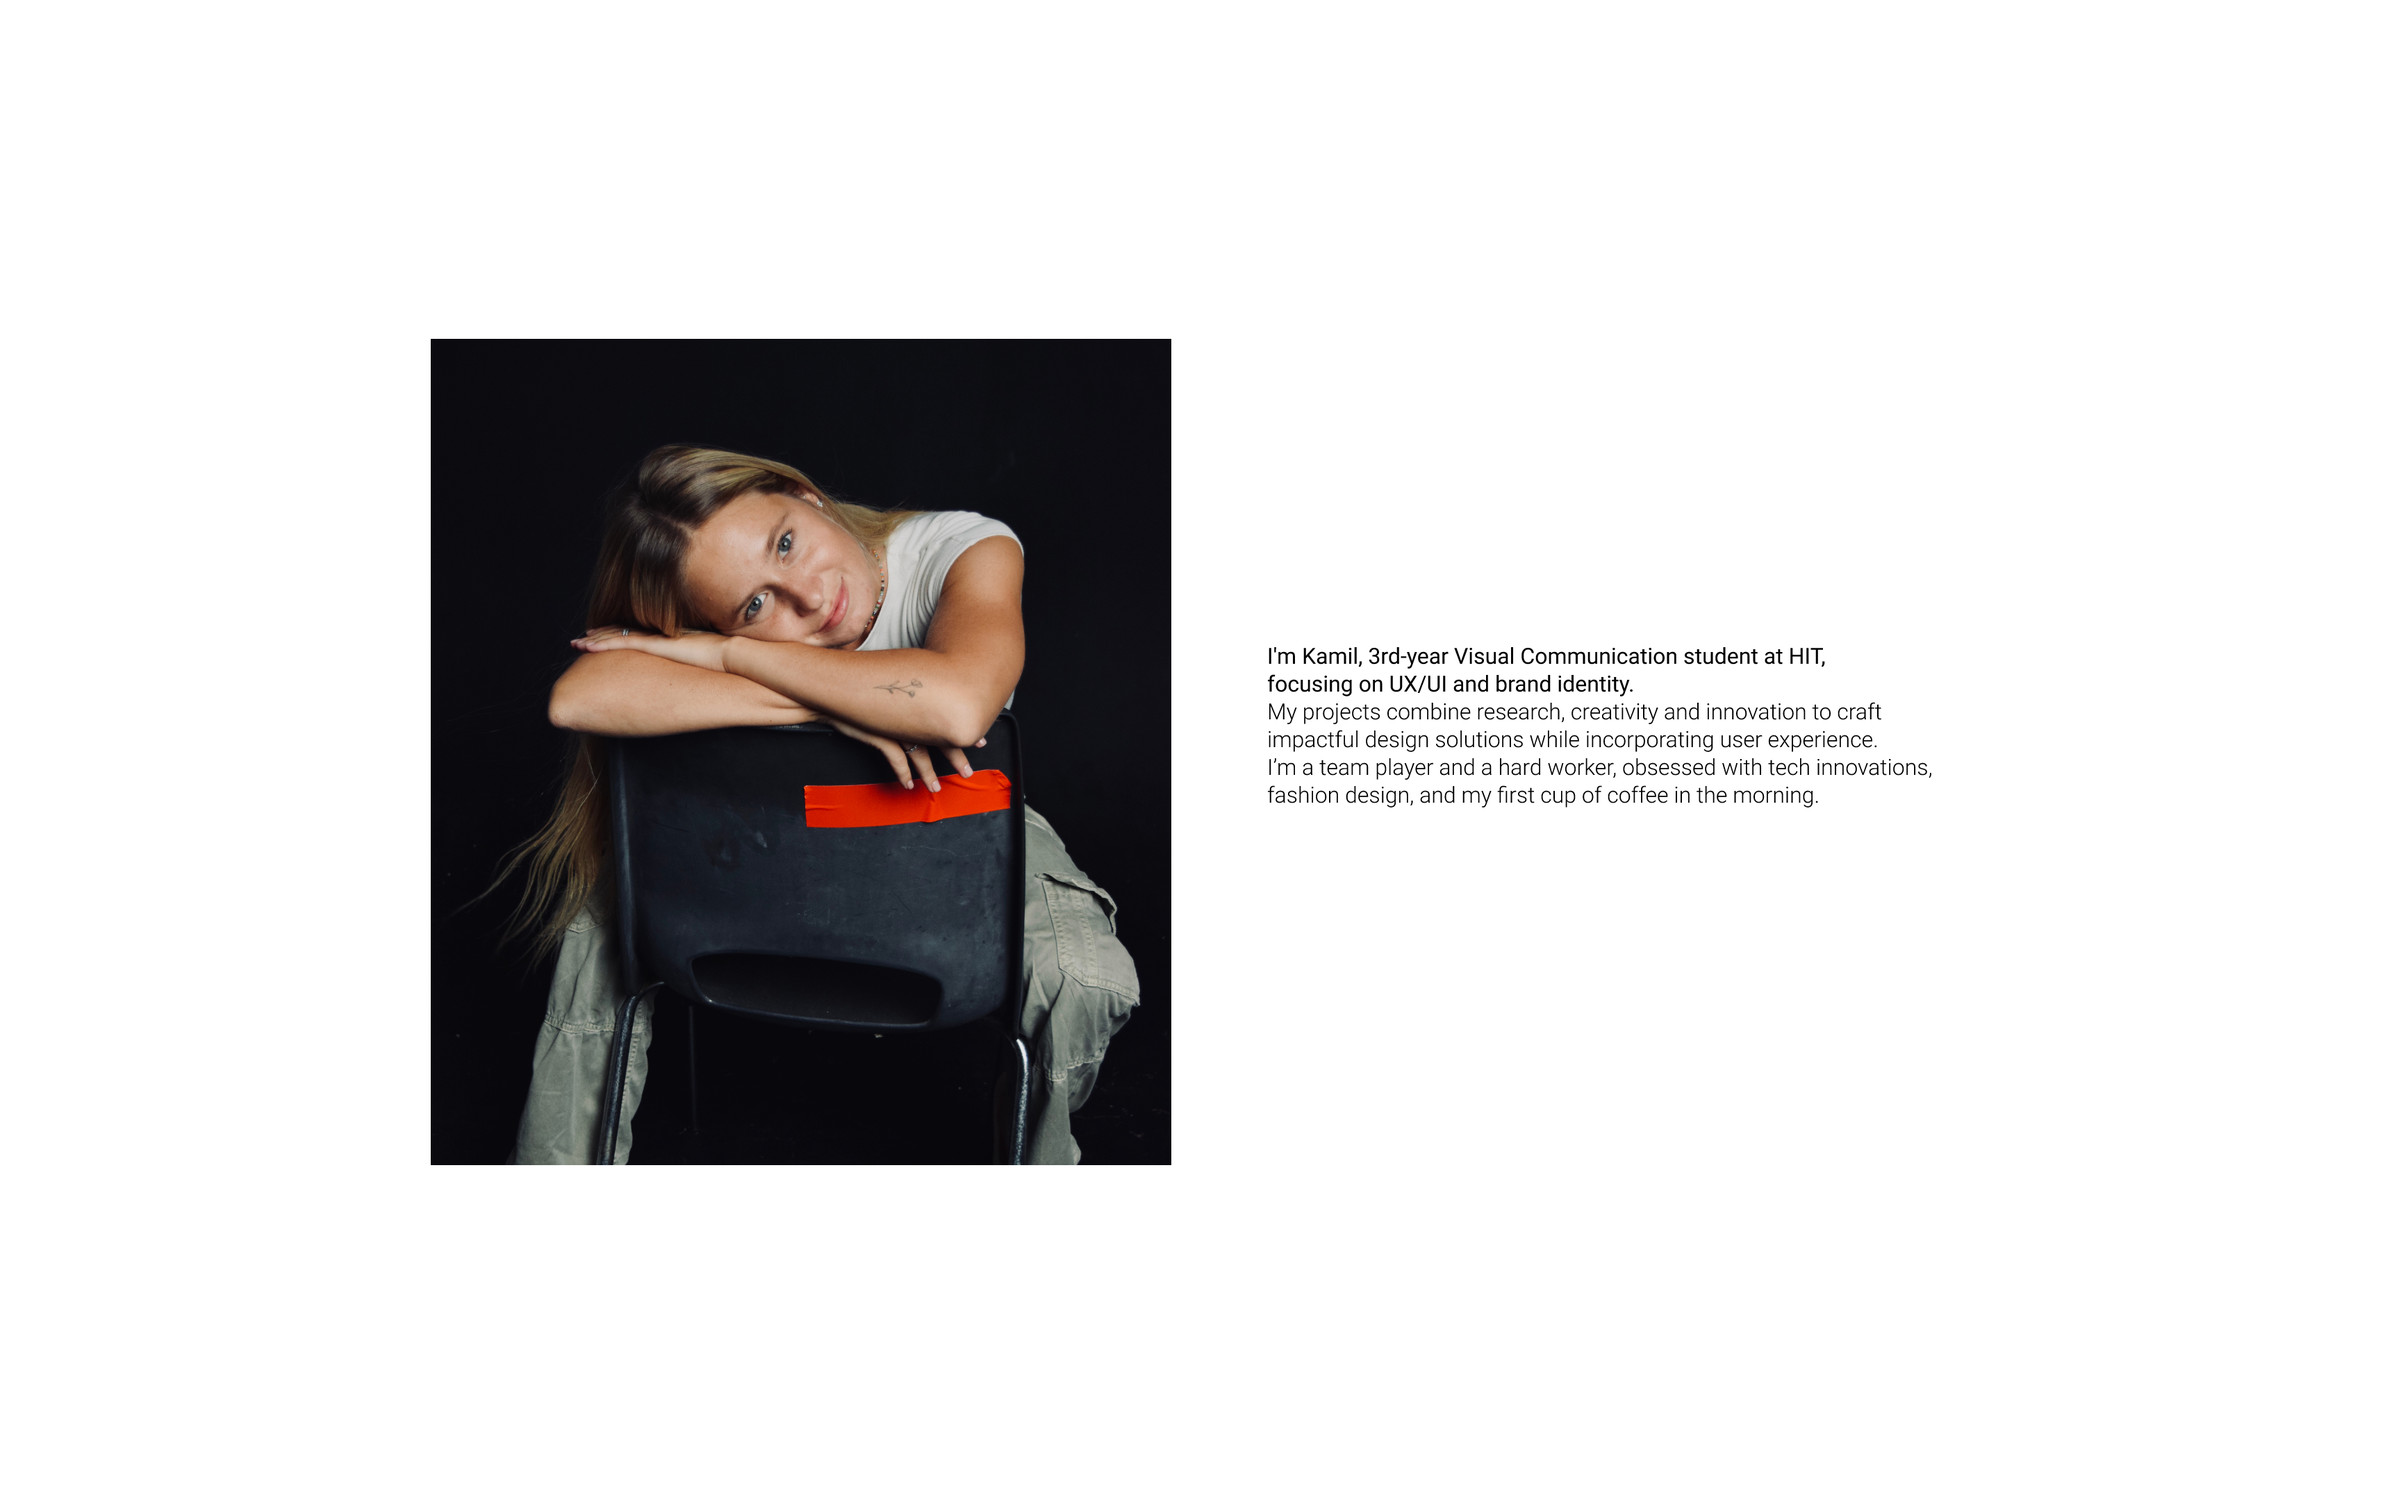
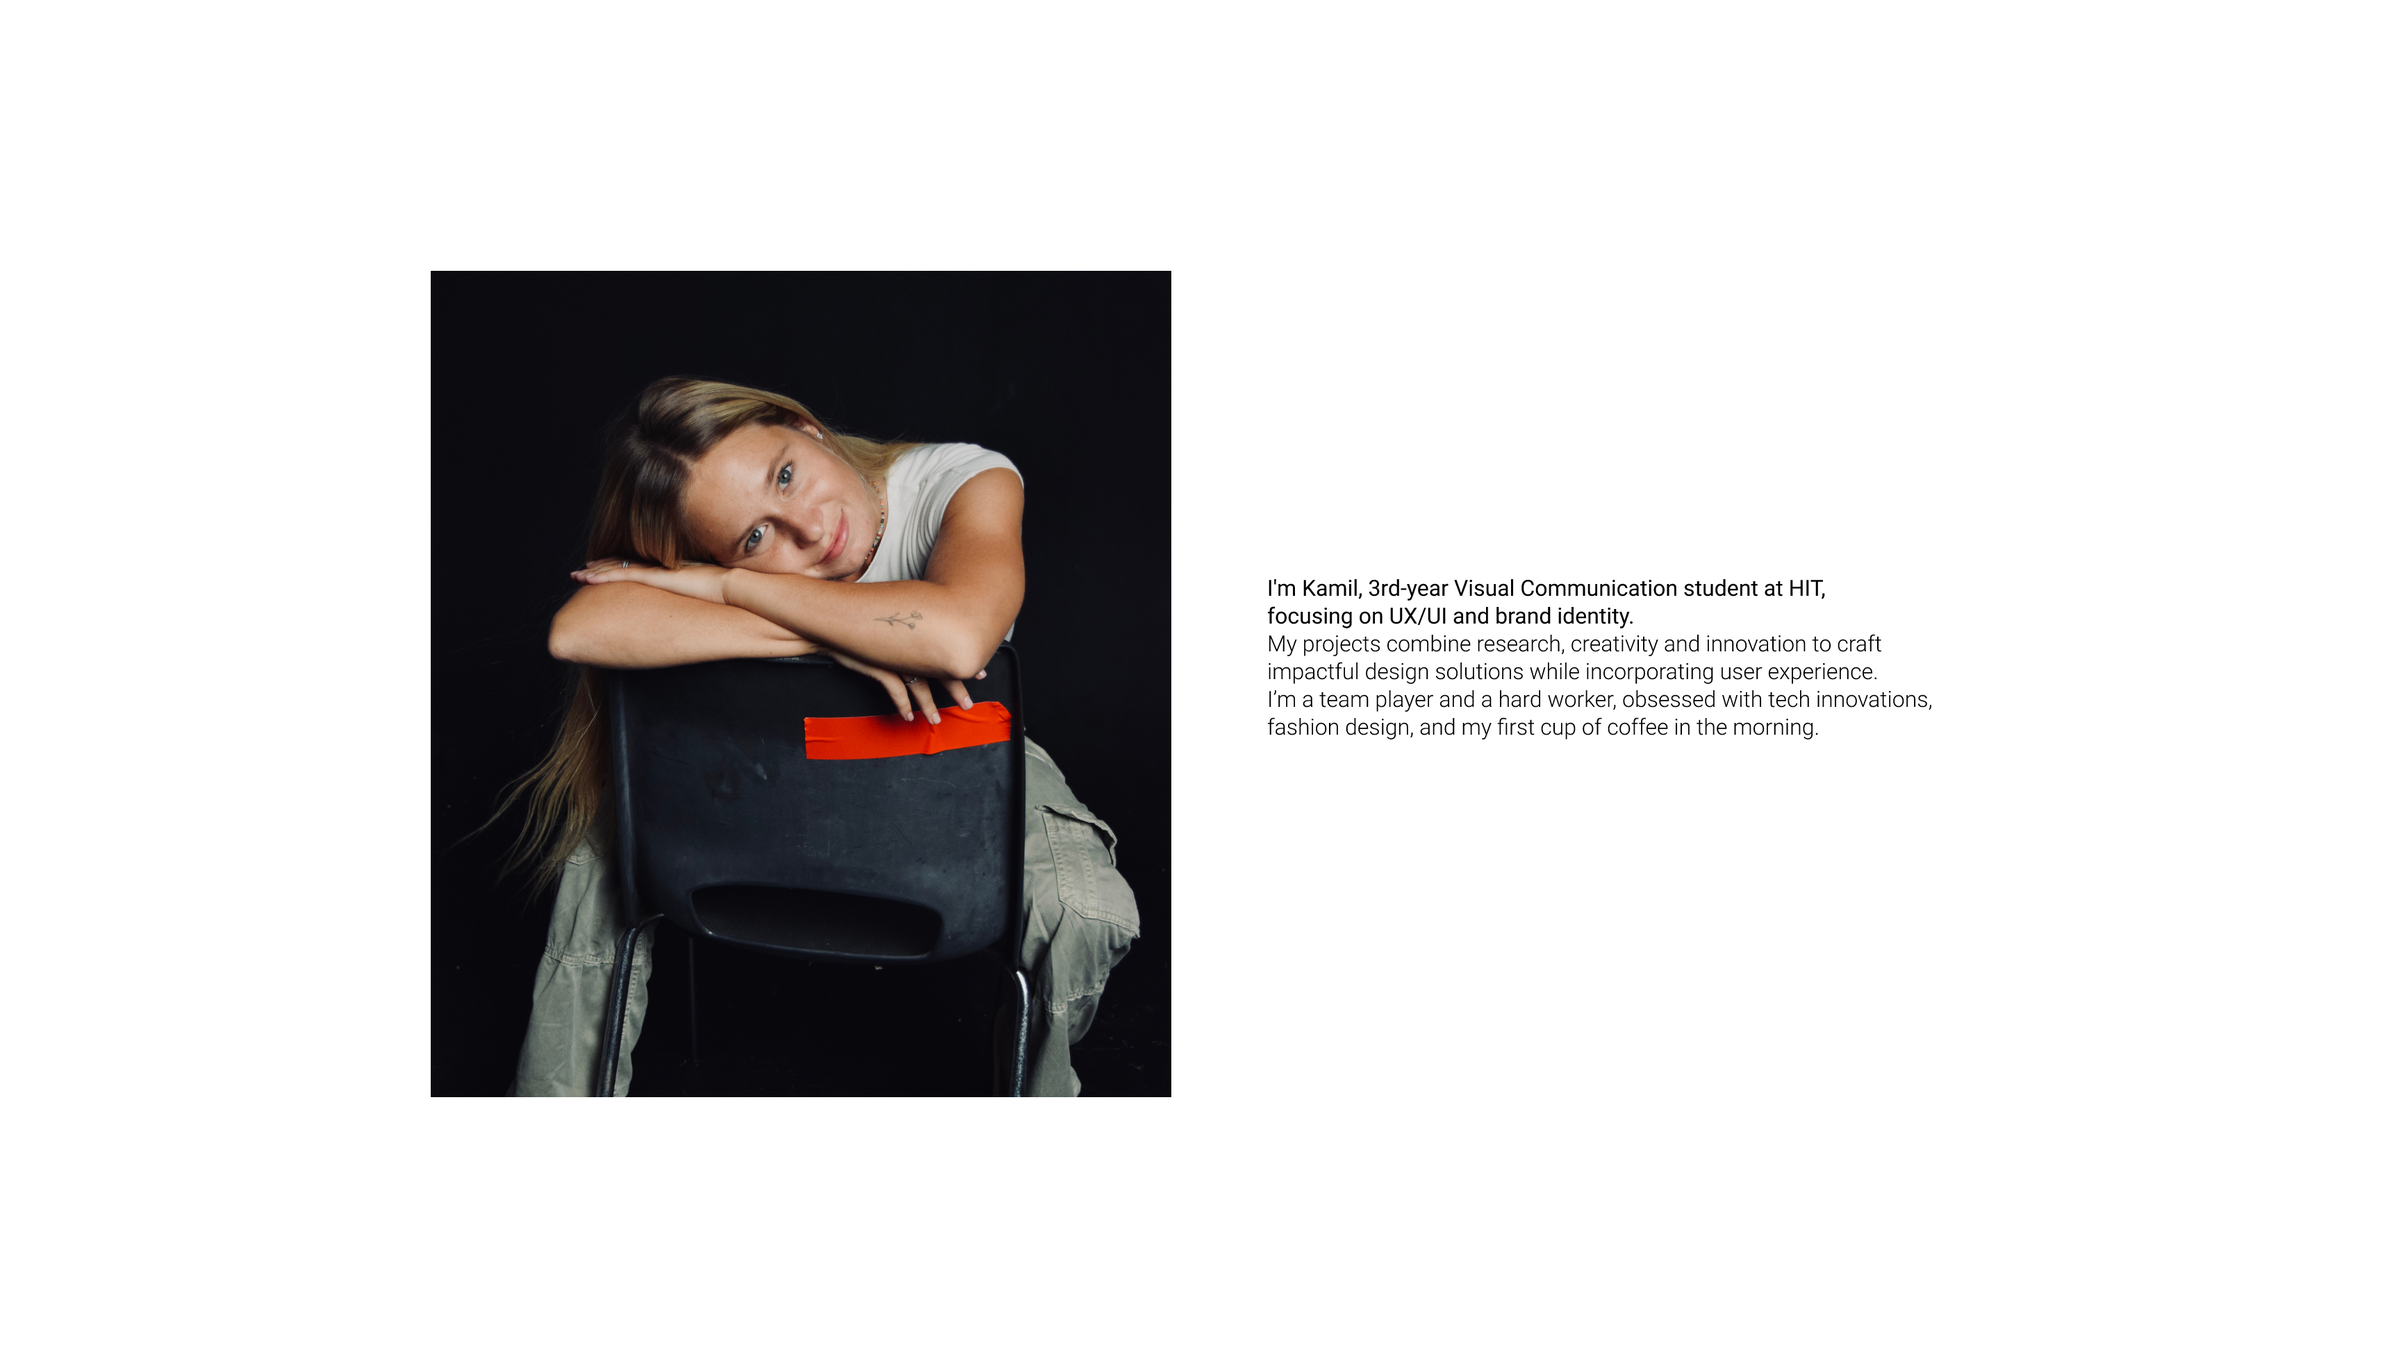
change prototype link

diff --git a/now.html b/now.html
@@ -1060,7 +1060,7 @@
         <div class="case-prototype-link-wrap case-reveal-item">
           <a
             class="case-prototype-link"
-            href="https://www.figma.com/proto/fhZRiVmuwN8cJzJ32hl5vI/%D7%90%D7%A4%D7%99%D7%9C%D7%A7%D7%A6%D7%99%D7%94-%D7%A1%D7%95%D7%A4%D7%99%D7%AA?node-id=17-1099&amp;viewport=697%2C-326%2C0.31&amp;t=qfWq78DvdpI7yax6-1&amp;scaling=min-zoom&amp;content-scaling=fixed&amp;starting-point-node-id=1%3A63&amp;show-proto-sidebar=1&amp;page-id=0%3A1"
+            href="https://www.figma.com/proto/fhZRiVmuwN8cJzJ32hl5vI/%D7%90%D7%A4%D7%99%D7%9C%D7%A7%D7%A6%D7%99%D7%94-%D7%A1%D7%95%D7%A4%D7%99%D7%AA?node-id=17-1099&amp;viewport=432%2C-1307%2C0.59&amp;t=bLuqRHgntQGStp8Y-1&amp;scaling=min-zoom&amp;content-scaling=fixed&amp;starting-point-node-id=1%3A63&amp;page-id=0%3A1"
             target="_blank"
             rel="noopener noreferrer"
           >
